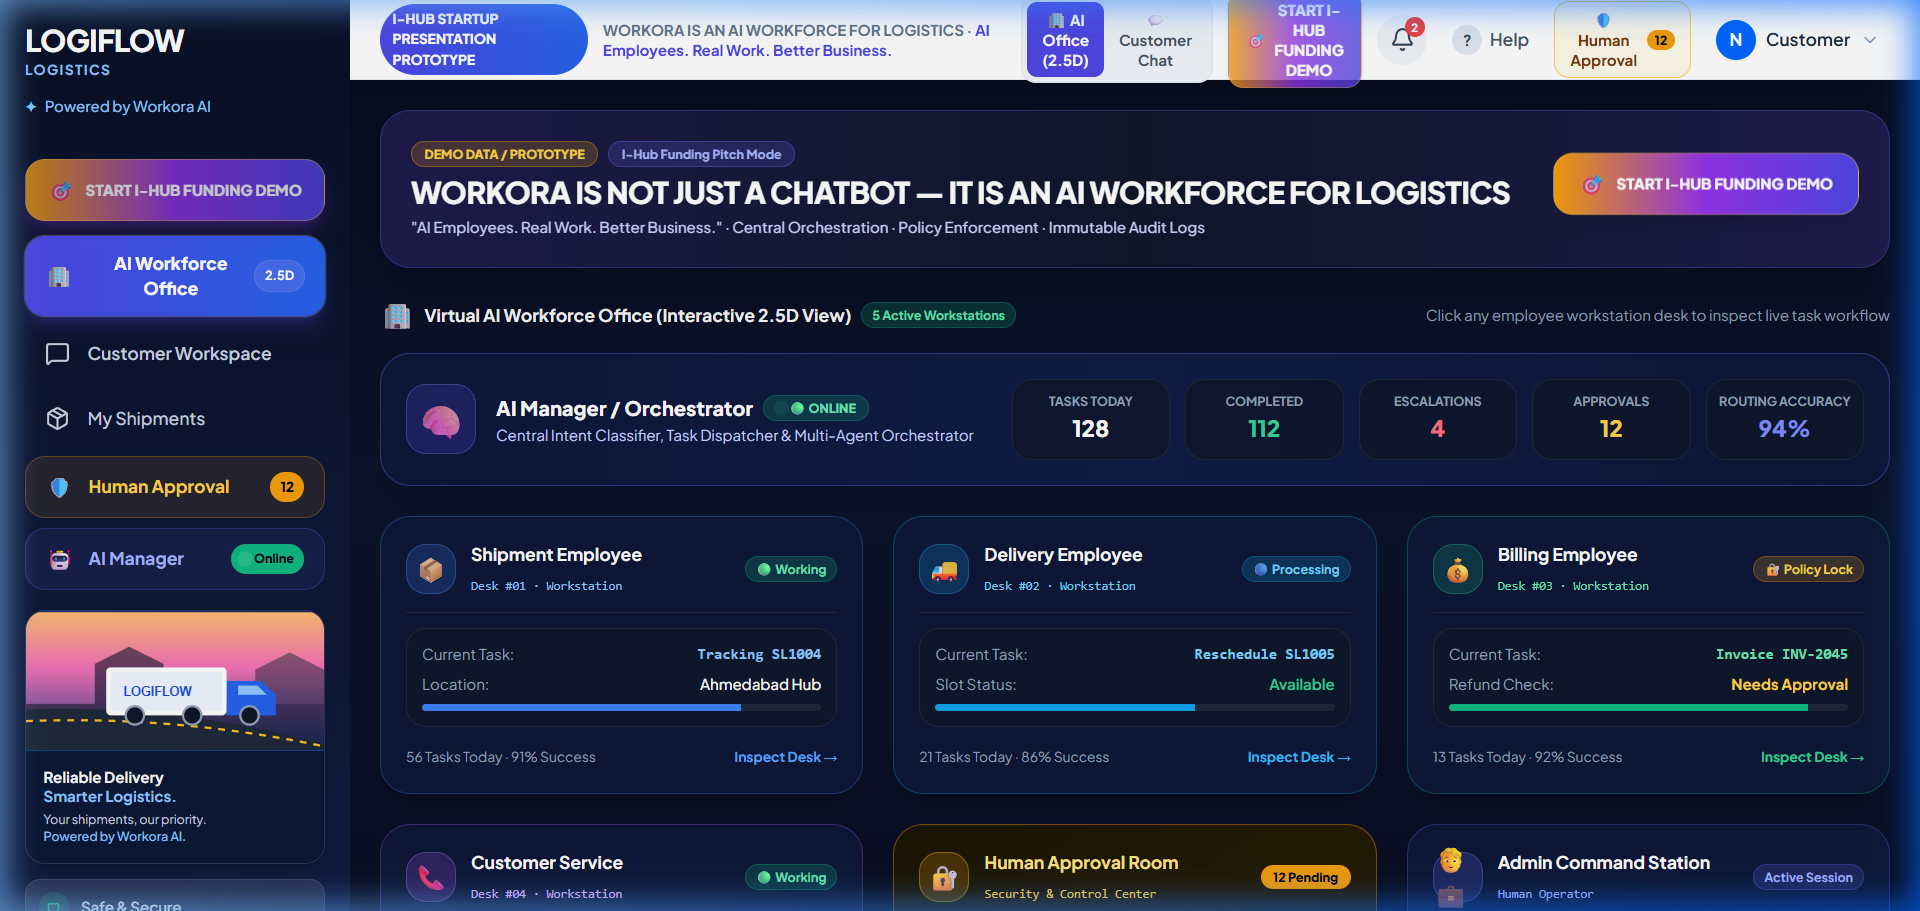
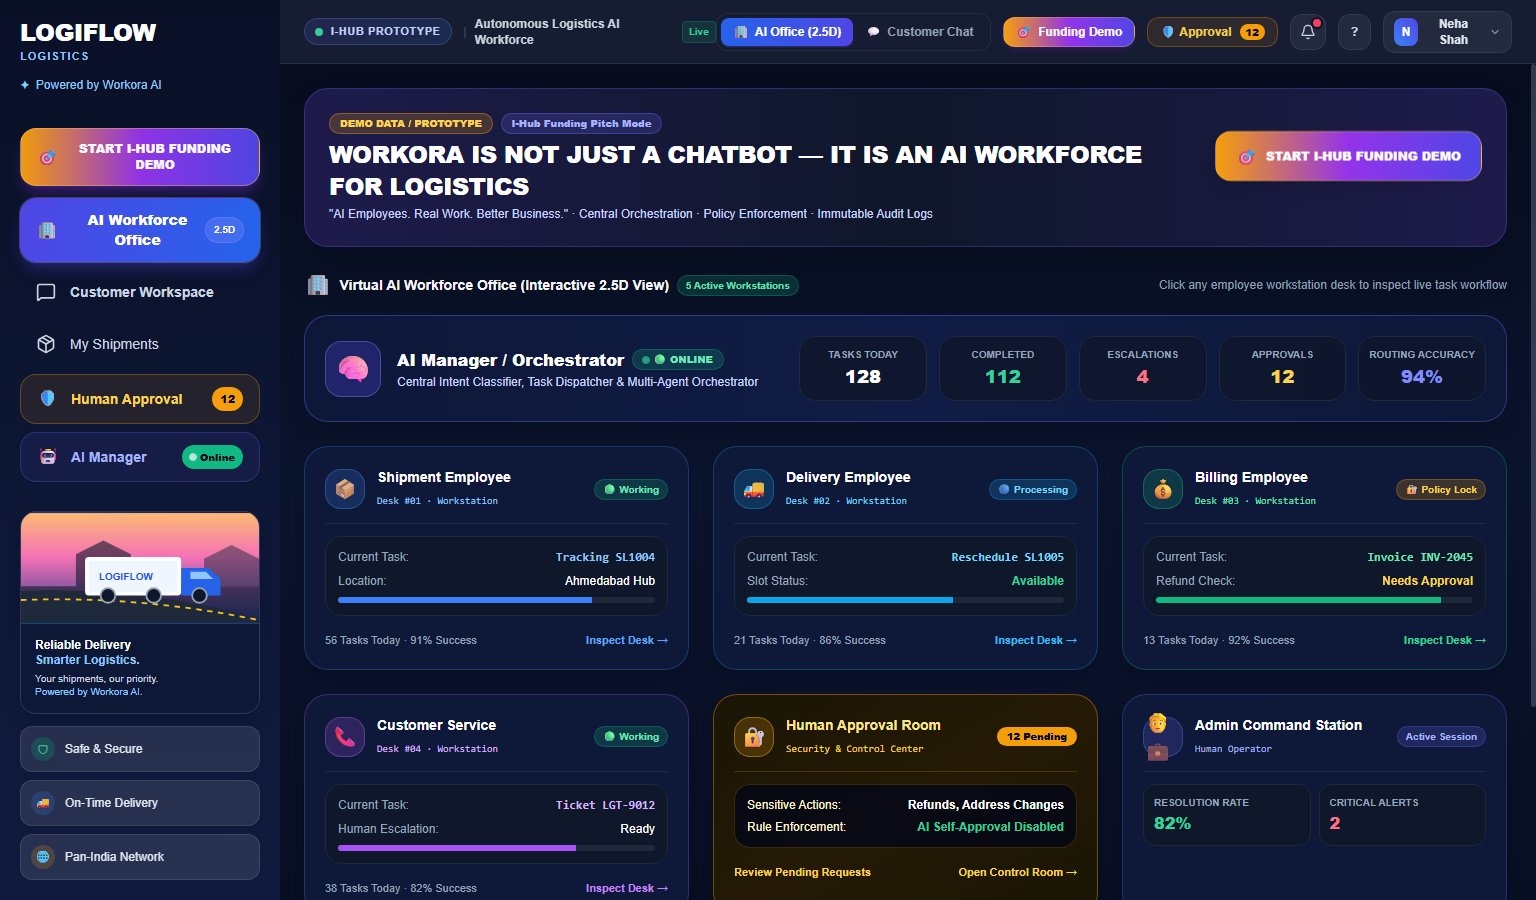
Curate top navigation header with unified dark glassmorphism and responsive layout

diff --git a/index.html b/index.html
@@ -960,70 +960,96 @@
             <div className="flex-1 flex flex-col h-full overflow-hidden">
               
               {/* TOP HEADER */}
-              <header className="h-16 bg-white border-b border-slate-200/80 px-6 flex items-center justify-between z-10 flex-shrink-0">
+              <header className="h-16 bg-[#091026]/95 backdrop-blur-xl border-b border-white/[0.08] px-5 sm:px-6 flex items-center justify-between z-30 flex-shrink-0 transition-colors">
                 
-                {/* Left Presentation Banner */}
+                {/* Left: Presentation & Brand Context */}
                 <div className="flex items-center gap-3">
-                  <span className="px-2.5 py-1 rounded-full text-[11px] font-extrabold bg-gradient-to-r from-indigo-600 to-blue-600 text-white shadow-xs">
-                    I-HUB STARTUP PRESENTATION PROTOTYPE
-                  </span>
-                  <span className="hidden lg:inline-block text-xs font-bold text-slate-500">
-                    WORKORA IS AN AI WORKFORCE FOR LOGISTICS · <span className="text-indigo-600">AI Employees. Real Work. Better Business.</span>
-                  </span>
+                  <div className="flex items-center gap-2 px-2.5 py-1 rounded-full bg-gradient-to-r from-indigo-500/15 to-blue-500/15 border border-indigo-400/25 text-indigo-200 text-[11px] font-bold tracking-wide shadow-xs whitespace-nowrap">
+                    <span className="w-2 h-2 rounded-full bg-emerald-400 animate-pulse"></span>
+                    <span className="tracking-wider uppercase">I-Hub Prototype</span>
+                  </div>
+                  <div className="hidden xl:flex items-center gap-2 text-xs text-slate-400 font-medium">
+                    <span className="text-slate-600">|</span>
+                    <span className="text-slate-300 font-semibold">Autonomous Logistics AI Workforce</span>
+                    <span className="px-1.5 py-0.5 rounded text-[10px] font-bold bg-emerald-500/15 text-emerald-400 border border-emerald-500/25">Live</span>
+                  </div>
                 </div>
 
-                {/* Right Workspace Switcher & Controls */}
-                <div className="flex items-center gap-3">
+                {/* Center / Right: Switcher & Interactive Controls */}
+                <div className="flex items-center gap-2.5 sm:gap-3">
                   
                   {/* Workspace Switcher Pills */}
-                  <div className="flex bg-slate-100 p-1 rounded-xl border border-slate-200 text-xs font-bold">
+                  <div className="flex bg-white/[0.05] p-1 rounded-xl border border-white/[0.08] text-xs font-semibold backdrop-blur-md">
                     <button
                       onClick={() => setWorkspaceView('office')}
-                      className={`px-3 py-1.5 rounded-lg transition cursor-pointer ${
-                        workspaceView === 'office' ? 'bg-indigo-600 text-white shadow-xs' : 'text-slate-600 hover:text-slate-900'
+                      className={`px-3 py-1.5 rounded-lg transition-all duration-200 cursor-pointer flex items-center gap-1.5 whitespace-nowrap ${
+                        workspaceView === 'office'
+                          ? 'bg-gradient-to-r from-blue-600 to-indigo-600 text-white shadow-sm shadow-indigo-500/30 font-bold'
+                          : 'text-slate-400 hover:text-white hover:bg-white/5'
                       }`}
                     >
-                      🏢 AI Office (2.5D)
+                      <span>🏢</span>
+                      <span>AI Office (2.5D)</span>
                     </button>
                     <button
                       onClick={() => setWorkspaceView('customer')}
-                      className={`px-3 py-1.5 rounded-lg transition cursor-pointer ${
-                        workspaceView === 'customer' ? 'bg-[#0066ff] text-white shadow-xs' : 'text-slate-600 hover:text-slate-900'
+                      className={`px-3 py-1.5 rounded-lg transition-all duration-200 cursor-pointer flex items-center gap-1.5 whitespace-nowrap ${
+                        workspaceView === 'customer'
+                          ? 'bg-gradient-to-r from-blue-600 to-indigo-600 text-white shadow-sm shadow-indigo-500/30 font-bold'
+                          : 'text-slate-400 hover:text-white hover:bg-white/5'
                       }`}
                     >
-                      💬 Customer Chat
+                      <span>💬</span>
+                      <span>Customer Chat</span>
                     </button>
                   </div>
 
                   {/* I-Hub Presentation Funding Demo CTA Button */}
                   <button
                     onClick={() => startFundingDemo()}
-                    className="px-3.5 py-1.5 rounded-xl bg-gradient-to-r from-amber-500 via-purple-600 to-indigo-600 text-white font-extrabold text-xs shadow-md hover:brightness-110 transition flex items-center gap-1.5 cursor-pointer border border-amber-300/40 animate-pulse"
+                    className="px-3 py-1.5 rounded-xl bg-gradient-to-r from-amber-500 via-purple-600 to-indigo-600 text-white font-bold text-xs shadow-md shadow-purple-900/30 hover:brightness-110 transition flex items-center gap-1.5 cursor-pointer border border-amber-300/30 whitespace-nowrap flex-shrink-0"
+                    title="Launch Pitch Walkthrough"
                   >
                     <span>🎯</span>
-                    <span>START I-HUB FUNDING DEMO</span>
+                    <span>{isFundingDemoRunning ? `Demo (${fundingDemoStep}/10)` : 'Funding Demo'}</span>
                   </button>
-                  
+
+                  {/* Human Approval Security Pill */}
+                  <button
+                    onClick={() => {
+                      setIsHumanApprovalModalOpen(true);
+                      fetchApprovals('Pending');
+                      fetchApprovalStats();
+                    }}
+                    className="flex items-center gap-2 text-xs font-semibold bg-amber-500/10 text-amber-300 border border-amber-500/30 hover:bg-amber-500/20 px-3 py-1.5 rounded-xl transition shadow-xs cursor-pointer whitespace-nowrap flex-shrink-0"
+                    title="Human Approval Internal Control Panel"
+                  >
+                    <span>🛡 Approval</span>
+                    <span className="bg-amber-500 text-slate-950 text-[10px] font-extrabold px-1.5 py-0.2 rounded-full min-w-[18px] text-center">
+                      {approvalStats.pending_approvals}
+                    </span>
+                  </button>
+
                   {/* Notification Bell */}
                   <div className="relative">
                     <button
                       onClick={() => setIsNotificationOpen(!isNotificationOpen)}
-                      className="w-10 h-10 rounded-full bg-slate-100 hover:bg-slate-200 text-slate-700 flex items-center justify-center transition relative"
+                      className="w-9 h-9 rounded-xl bg-white/[0.06] hover:bg-white/[0.12] border border-white/[0.08] text-slate-300 hover:text-white flex items-center justify-center transition relative cursor-pointer"
                       title="Notifications"
                     >
-                      <i data-lucide="bell" className="w-5 h-5"></i>
-                      <span className="absolute top-0.5 right-0.5 w-4 h-4 rounded-full bg-red-500 text-white text-[9px] font-bold flex items-center justify-center">2</span>
+                      <i data-lucide="bell" className="w-4 h-4"></i>
+                      <span className="absolute top-1 right-1 w-2 h-2 rounded-full bg-rose-500 ring-2 ring-[#091026]"></span>
                     </button>
 
                     {isNotificationOpen && (
-                      <div className="absolute right-0 mt-2 w-72 bg-white border border-slate-200 rounded-2xl shadow-xl p-3.5 z-50 animate-in fade-in">
-                        <div className="flex items-center justify-between border-b border-slate-100 pb-2 mb-2">
-                          <span className="font-bold text-xs text-slate-900">Notifications</span>
-                          <span className="text-[10px] px-2 py-0.5 rounded bg-blue-50 text-blue-600 font-semibold">2 New</span>
+                      <div className="absolute right-0 mt-2 w-72 bg-[#0d1633] border border-slate-700/80 rounded-2xl shadow-2xl p-3.5 z-50 text-white animate-in fade-in">
+                        <div className="flex items-center justify-between border-b border-slate-700/60 pb-2 mb-2">
+                          <span className="font-bold text-xs text-white">Notifications</span>
+                          <span className="text-[10px] px-2 py-0.5 rounded-full bg-blue-500/20 text-blue-300 font-semibold">2 New</span>
                         </div>
-                        <div className="p-2 rounded-xl bg-blue-50 text-xs text-slate-700">
-                          <strong className="block text-blue-900">Shipment SL1004 Arrived</strong>
-                          <span className="text-[11px]">Arrived at Ahmedabad Sorting Facility.</span>
+                        <div className="p-2.5 rounded-xl bg-slate-900/90 border border-slate-800 text-xs text-slate-300">
+                          <strong className="block text-blue-300">Shipment SL1004 Arrived</strong>
+                          <span className="text-[11px] text-slate-400">Arrived at Ahmedabad Sorting Facility.</span>
                         </div>
                       </div>
                     )}
@@ -1032,47 +1058,32 @@
                   {/* Help */}
                   <button
                     onClick={() => handleSendMessage('I need help')}
-                    className="flex items-center gap-1.5 text-sm font-semibold text-slate-600 hover:text-slate-900 px-2 py-1 transition"
+                    className="w-9 h-9 rounded-xl bg-white/[0.06] hover:bg-white/[0.12] border border-white/[0.08] text-slate-300 hover:text-white flex items-center justify-center text-xs font-bold transition cursor-pointer"
+                    title="Get Help"
                   >
-                    <div className="w-6 h-6 rounded-full bg-slate-200 text-slate-700 font-bold text-xs flex items-center justify-center">?</div>
-                    <span>Help</span>
-                  </button>
-
-                  {/* Human Approval Header Button */}
-                  <button
-                    onClick={() => {
-                      setIsHumanApprovalModalOpen(true);
-                      fetchApprovals('Pending');
-                      fetchApprovalStats();
-                    }}
-                    className="flex items-center gap-2 text-xs font-bold bg-amber-50 text-amber-900 border border-amber-300 hover:bg-amber-100 px-3 py-1.5 rounded-xl transition shadow-xs cursor-pointer"
-                    title="Human Approval Internal Control Panel"
-                  >
-                    <span>🛡 Human Approval</span>
-                    <span className="bg-amber-500 text-slate-950 text-[10px] font-extrabold px-1.5 py-0.2 rounded-full">
-                      {approvalStats.pending_approvals}
-                    </span>
+                    ?
                   </button>
 
                   {/* Customer Dropdown */}
                   <div className="relative">
                     <button
                       onClick={() => setIsCustomerMenuOpen(!isCustomerMenuOpen)}
-                      className="flex items-center gap-2 text-sm font-semibold text-slate-800 hover:bg-slate-100 px-2 py-1 rounded-xl transition"
+                      className="flex items-center gap-2 bg-white/[0.06] hover:bg-white/[0.12] border border-white/[0.08] px-2.5 py-1 rounded-xl transition cursor-pointer"
                     >
-                      <div className="w-8 h-8 rounded-full bg-[#0066ff] text-white flex items-center justify-center text-sm font-bold shadow-sm">
+                      <div className="w-7 h-7 rounded-lg bg-gradient-to-tr from-blue-500 to-indigo-600 text-white flex items-center justify-center text-xs font-bold shadow-sm">
                         N
                       </div>
-                      <span>Customer</span>
-                      <i data-lucide="chevron-down" className="w-4 h-4 text-slate-400"></i>
+                      <span className="text-xs font-semibold text-slate-200 hidden md:inline-block">Neha Shah</span>
+                      <i data-lucide="chevron-down" className="w-3.5 h-3.5 text-slate-400"></i>
                     </button>
 
                     {isCustomerMenuOpen && (
-                      <div className="absolute right-0 mt-2 w-48 bg-white border border-slate-200 rounded-2xl shadow-xl py-2 z-50 text-xs text-slate-700">
-                        <div className="px-3 py-1.5 border-b border-slate-100">
-                          <strong className="block text-slate-900">Neha Shah</strong>
+                      <div className="absolute right-0 mt-2 w-48 bg-[#0d1633] border border-slate-700/80 rounded-2xl shadow-2xl py-2 z-50 text-xs text-slate-200">
+                        <div className="px-3 py-1.5 border-b border-slate-700/60">
+                          <strong className="block text-white">Neha Shah</strong>
+                          <span className="text-[10px] text-slate-400">Enterprise Logistics Lead</span>
                         </div>
-                        <button onClick={() => setIsCustomerMenuOpen(false)} className="w-full text-left px-3 py-2 hover:bg-slate-50">
+                        <button onClick={() => setIsCustomerMenuOpen(false)} className="w-full text-left px-3 py-2 hover:bg-white/5 transition">
                           Profile Settings
                         </button>
                       </div>
